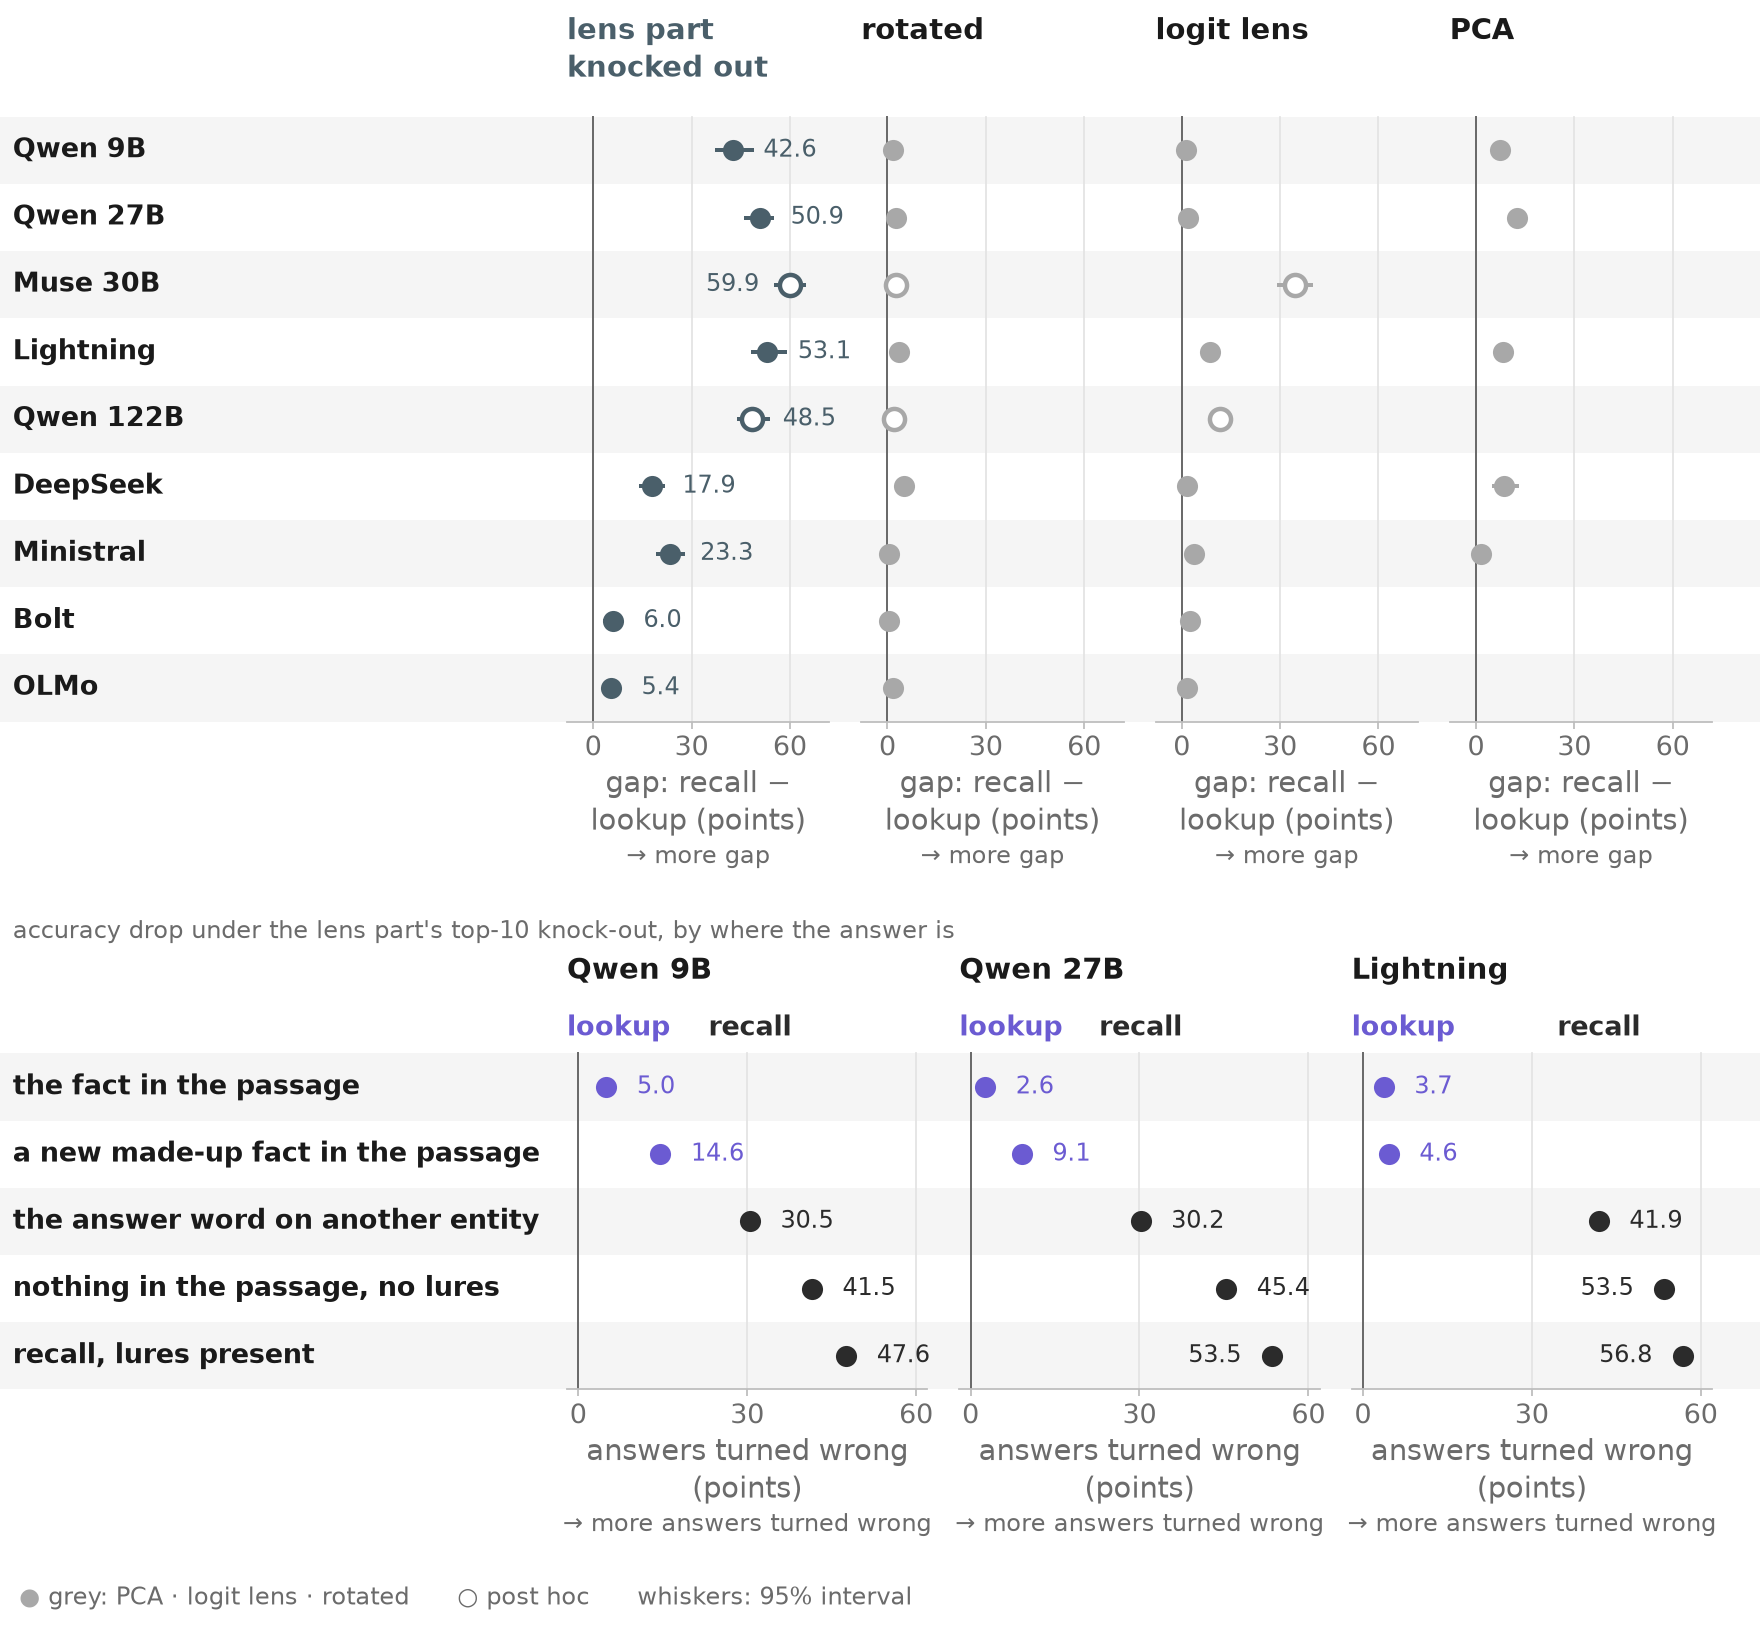
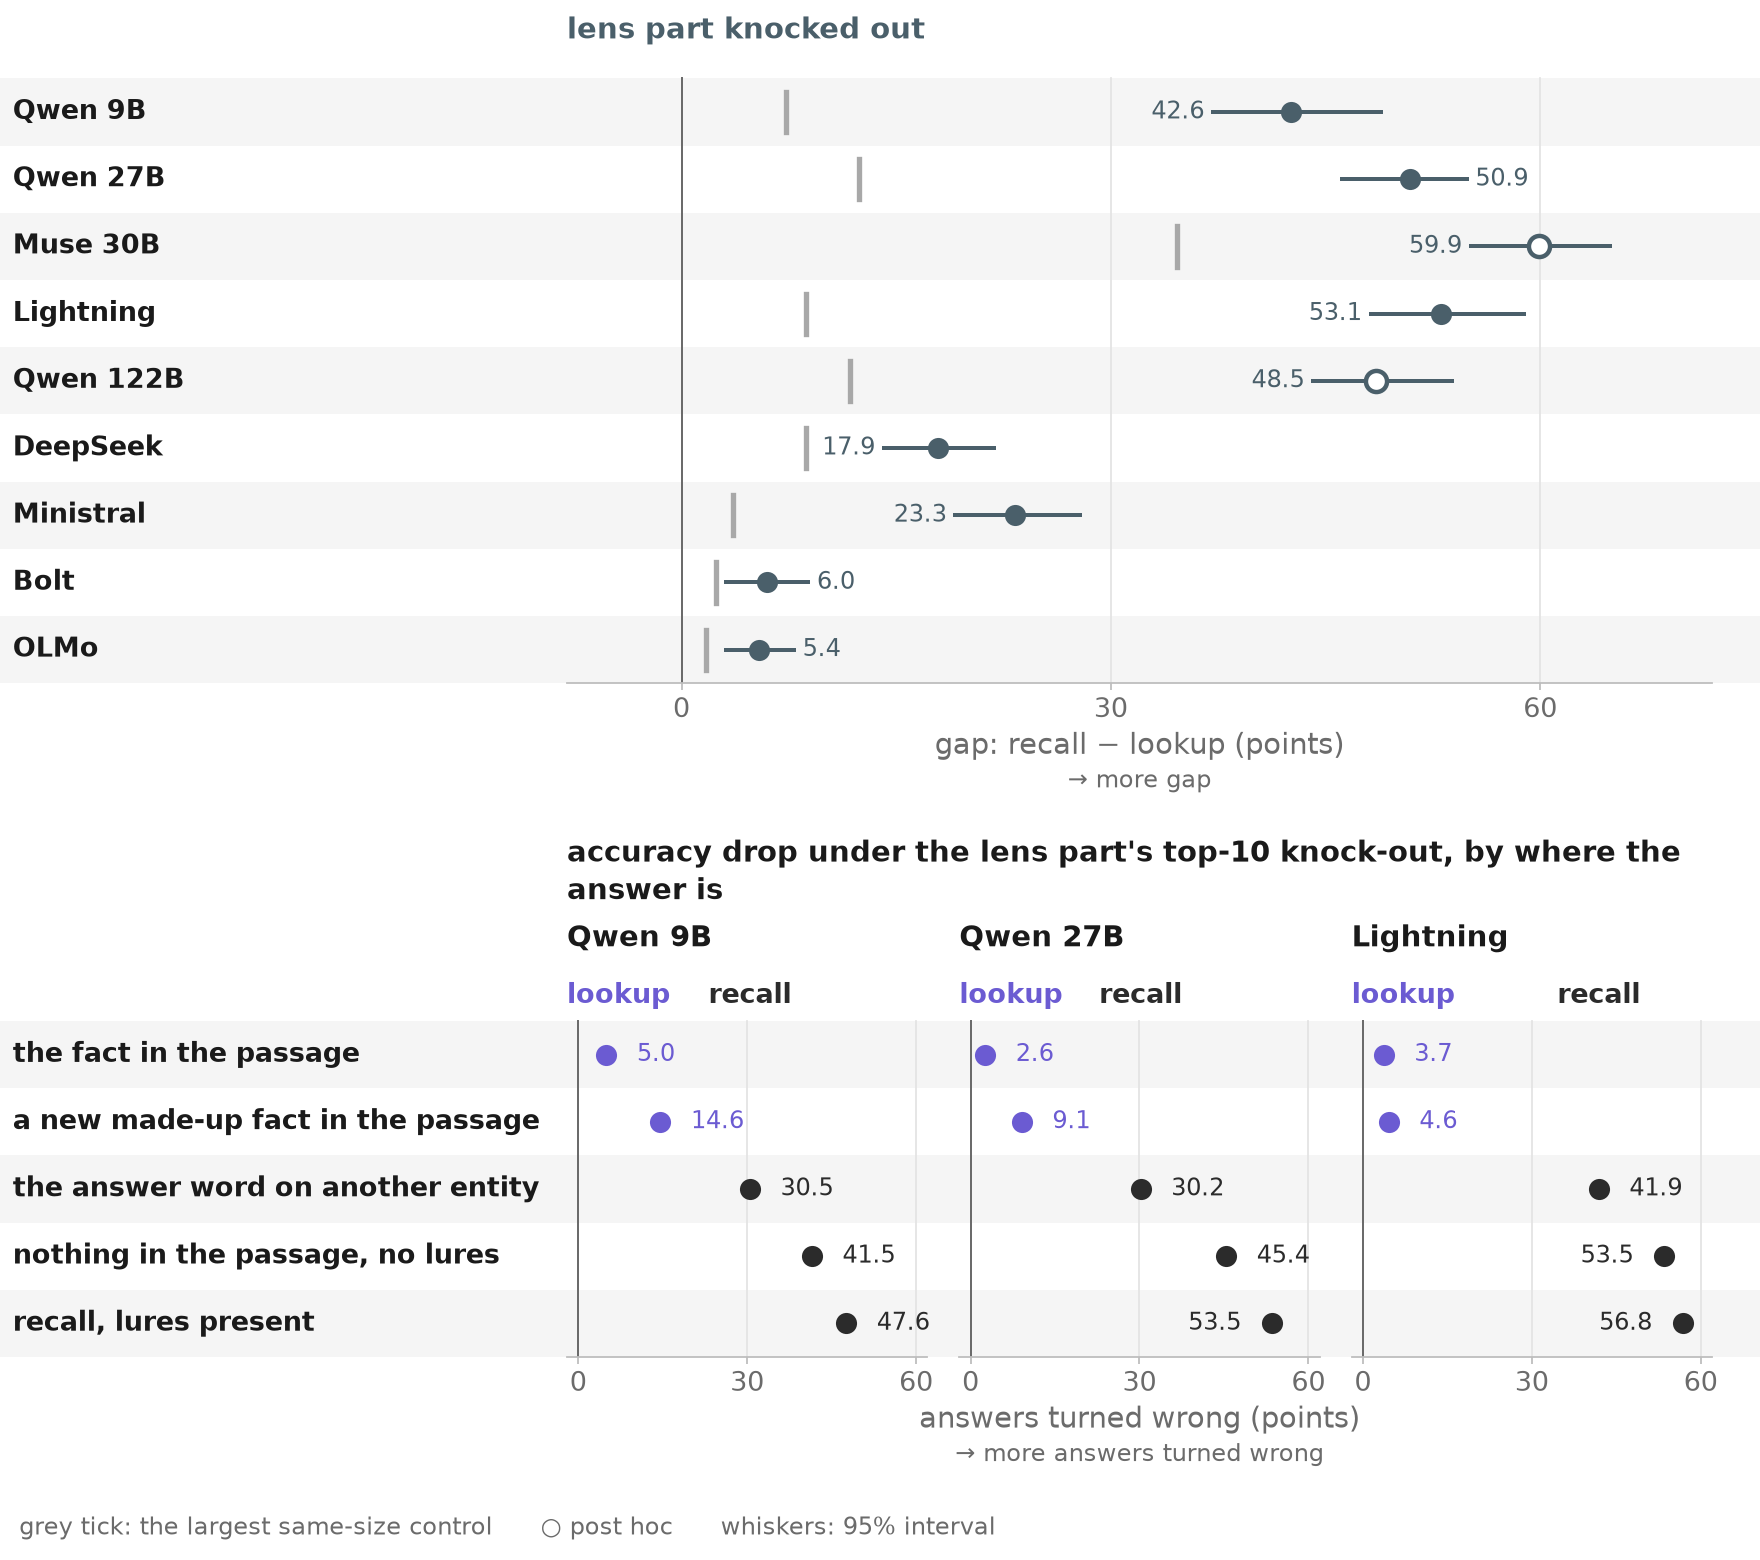
F3 (breadth): fig01's controls as the grey tick on the lens part's axis
breadth/01_needed drew rotated, logit lens and PCA as three more columns with
their own axes; the largest of them is now the grey tick on the lens part's
axis. The bottom panel (kept, F9) shares one axis title.

diff --git a/src/bridge_jspace/figkit/breadth_sp.py b/src/bridge_jspace/figkit/breadth_sp.py
@@ -68,13 +68,15 @@ def fig01_needed() -> sp.Figure:
     v = vocab()
     rows = models_with("ko.{}.mk")
     lens = {m: est(b(f"ko.{i}.mk"), f"mk.{i}", f"ko.{i}.mk", label=True) for i, m in rows}
-    series = [sp.Series("control", {m: est(c, f"mk.{i}", f"ko.{i}.{k}", interval=True)
-                                    for i, m in rows if (c := b(f"ko.{i}.{k}"))}, control=name)
-              for k, name in CONTROLS01]  # fmt: skip
-    # one column per arm: grey dots of different controls in one column could not be told apart
+    # README brief F3: the controls on the lens part's axis, as the grey tick of the largest (one grey per line)
+    ticks = {
+        m: max(c[0] for k, _n in CONTROLS01 if (c := b(f"ko.{i}.{k}")))
+        for i, m in rows
+        if any(b(f"ko.{i}.{k}") for k, _n in CONTROLS01)
+    }
     top = sp.DotTable([m for _i, m in rows], [
-        sp.DotColumn("lens part knocked out", "gap", (-8, 72), (0, 30, 60), series=[sp.Series("neutral", lens, word="lens part knocked out")]),
-        *(sp.DotColumn(s.control, "gap", (-8, 72), (0, 30, 60), series=[s]) for s in series),
+        sp.DotColumn("lens part knocked out", "gap", (-8, 72), (0, 30, 60),
+                     series=[sp.Series("neutral", lens, word="lens part knocked out")], ticks=ticks),
     ])  # fmt: skip
     strong = [(i, m) for i, m in rows if i in ("q9", "q27", "nl")]
     vb = v.with_entities("finals", [(k, name) for k, name, _r in FINALS])
@@ -87,8 +89,9 @@ def fig01_needed() -> sp.Figure:
                 cells[role][k] = sp.Est(c[0], cell=f"lost.{i}", key=f"ko.{i}.lost{k}", label=True)
         cols.append(sp.DotColumn(v.entity("models", m).name, "drop", (-2, 62), (0, 30, 60),
                                  series=[sp.Series("lookup", cells["lookup"]), sp.Series("recall", cells["recall"])]))  # fmt: skip
-    bottom = sp.DotTable([k for k, *_ in FINALS], cols, kind="finals",
-                         note="accuracy drop under the lens part's top-10 knock-out, by where the answer is")  # fmt: skip
+    # one group: one shared axis title under the three models (README brief §3, principle 4)
+    bottom = sp.DotTable([k for k, *_ in FINALS], [sp.ColumnGroup(
+        "accuracy drop under the lens part's top-10 knock-out, by where the answer is", cols)], kind="finals")  # fmt: skip
     return sp.Figure("breadth_fig01_needed", vb).add(top, bottom)
 
 

diff --git a/figures/breadth/README.md b/figures/breadth/README.md
@@ -4,7 +4,7 @@ Built by `make readme` with [styles-plot](https://github.com/danorel/styles-plot
 
 | № | figure | what it shows | status |
 |---|---|---|---|
-| 01 | <a href="01_needed.png"><img src="01_needed.png" width="260" alt="01_needed"></a> | Removing 10 J++ directions breaks recalled facts, not stated ones, in three models from two families | 2 of 12 cells post hoc · UNVERIFIED |
+| 01 | <a href="01_needed.png"><img src="01_needed.png" width="260" alt="01_needed"></a> | Removing the lens part (its 10 directions) breaks recalled facts, not stated ones, in three models from two families, far beyond the largest same-size control | 2 of 12 cells post hoc · UNVERIFIED |
 | 02 | <a href="02_datasets.png"><img src="02_datasets.png" width="260" alt="02_datasets"></a> | The Qwens' split on every dataset we built, with the logit lens near zero | UNVERIFIED |
 | 02b | <a href="02b_datasets.png"><img src="02b_datasets.png" width="260" alt="02b_datasets"></a> | The Qwens' split on every dataset we built, with the logit lens near zero | 5 of 15 cells post hoc · UNVERIFIED |
 | 03a | <a href="03a_robust.png"><img src="03a_robust.png" width="260" alt="03a_robust"></a> | The split holds on every relation, every start, both test halves, three renderings and by probability | UNVERIFIED |

diff --git a/docs/breadth/README.md b/docs/breadth/README.md
@@ -35,7 +35,7 @@ entity, does that depend on whether the final fact is recalled or stated, and in
   Whether the model depends on those directions is a separate, model-specific question.
 
 **Status.** This is Zach's half (breadth): nine models on our dataset jsuite v2, plus the Qwens on every earlier dataset,
-as of 27 Oct 2026. All numbers are unverified until hand-checked (Section 9). Built at 83d4953f from the run files.
+as of 27 Oct 2026. All numbers are unverified until hand-checked (Section 9). Built at b830e65f from the run files.
 
 ## Setup
 
@@ -114,7 +114,7 @@ Does removing what the lens reads cost recall more than reading?
   - M − K is +51 [46, 55] (27B), +43 [37, 49] (9B) and +53 [48, 59] (Lightning).
   - Stated facts drop 3, 5 and 4 points.
 
-![Removing 10 J++ directions breaks recalled facts, not stated ones, in three models from two families](../../figures/breadth/01_needed.png)
+![Removing the lens part (its 10 directions) breaks recalled facts, not stated ones, in three models from two families, far beyond the largest same-size control](../../figures/breadth/01_needed.png)
 *Fig. 1.*
 
 - **It is specific to the lens's directions.**

diff --git a/docs/review/docs_pass_2026-11-07.md b/docs/review/docs_pass_2026-11-07.md
@@ -141,3 +141,8 @@ Numbers: none moved or dropped.
 
 - F7: the routes card (figures/examples/03_routes, E4) stands before readme/08_routes (placed in the README for the re-cut to keep above the figure).
 - F8: readme/06_address_read_remove gets its own caption (it had none in the README); a sentence leads into 07_address_swap_lens; both captions rewritten to the two panels each figure draws (they described the old four-column figure). 07 caption: the 200 random vectors and the 25 directions with src comments.
+
+## README brief §3: F3 (breadth), F9 axis
+
+- breadth/01_needed (top): the three same-size controls (rotated, logit lens, PCA), each its own column before, are now the grey tick of the largest on the lens part's axis (nine models: a lane per control would not fit). Control values were never printed: no keyed string changed. Alt text: "J++ directions" → "the lens part (its 10 directions)", plus "far beyond the largest same-size control".
+- breadth/01_needed (bottom, F9, kept): one shared axis title under the three models (the note became the group header).

diff --git a/docs/breadth/README.template.md b/docs/breadth/README.template.md
@@ -80,7 +80,7 @@ Does removing what the lens reads cost recall more than reading?
   - M − K is {{vci|ko.q27.mk}} (27B), {{vci|ko.q9.mk}} (9B) and {{vci|ko.nl.mk}} (Lightning).
   - Stated facts drop {{v|ko.q27.klost}}, {{v|ko.q9.klost}} and {{v|ko.nl.klost}} points.
 
-![Removing 10 J++ directions breaks recalled facts, not stated ones, in three models from two families](../../figures/breadth/01_needed.png)
+![Removing the lens part (its 10 directions) breaks recalled facts, not stated ones, in three models from two families, far beyond the largest same-size control](../../figures/breadth/01_needed.png)
 *Fig. 1.*
 
 - **It is specific to the lens's directions.**
